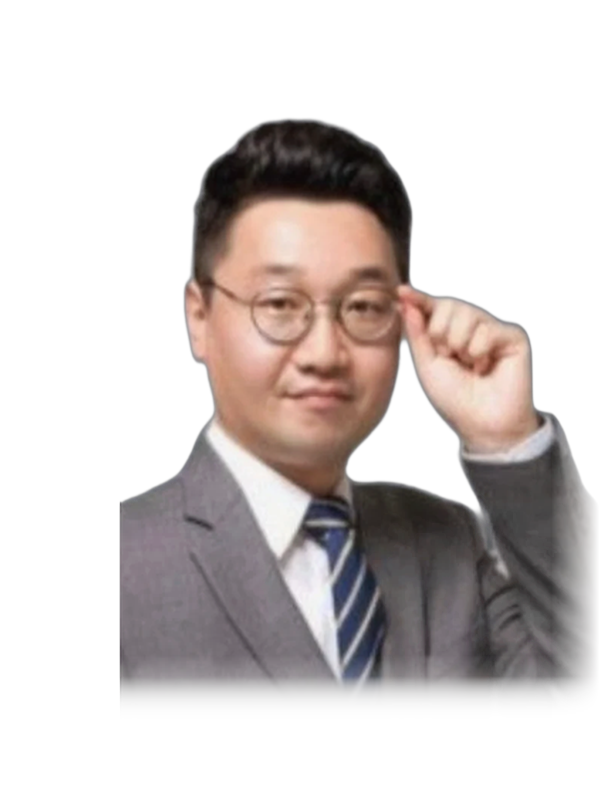
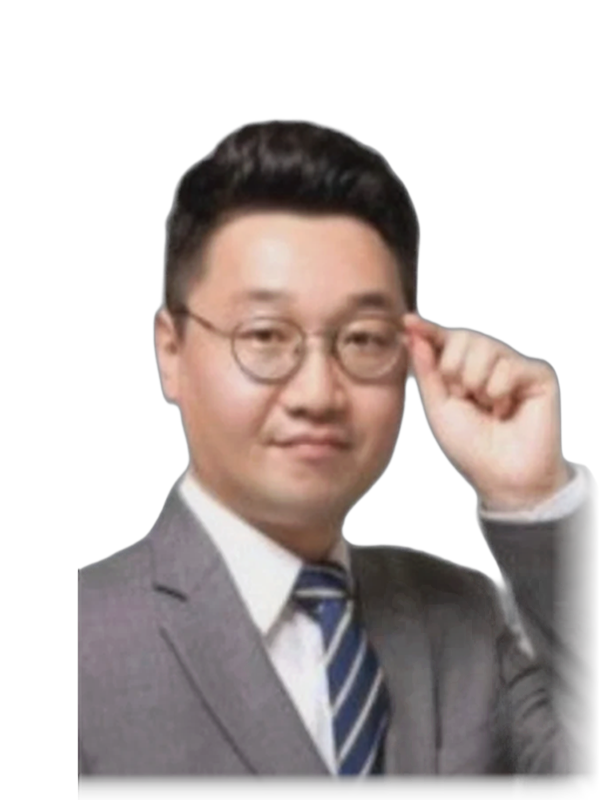
선생님 사진: 아래를 흐리게 하지 않고 몸이 카드 아래 끝까지 오도록 키움
Claude-Session: https://claude.ai/code/session_01H9XFxZ4DKDH3sBZmfjvmgx

diff --git a/scripts/align_photos.py b/scripts/align_photos.py
@@ -74,6 +74,20 @@ def sane(face, img):
     return face if img.height * 0.06 <= fh <= img.height * 0.7 and fw > 0 else None
 
 
+def fill_bottom(canvas):
+    """몸이 캔버스 아래 끝까지 오도록(아래가 비면) 머리 위치는 그대로 두고 살짝 키웁니다."""
+    bb = canvas.split()[3].point(lambda v: 255 if v > 40 else 0).getbbox()
+    if not bb or bb[3] >= H - 2:
+        return canvas
+    top, bottom = bb[1], bb[3]
+    k = (H - top) / (bottom - top)
+    big = canvas.resize((round(W * k), round(H * k)), Image.LANCZOS)
+    cx = (bb[0] + bb[2]) / 2
+    out = Image.new('RGBA', (W, H), (0, 0, 0, 0))
+    out.paste(big, (round(cx - cx * k), round(top - top * k)), big)
+    return out
+
+
 def align(src: Path, dst: Path):
     img = Image.open(src).convert('RGBA')
     # 큰 원본은 먼저 줄여서 처리(메모리·속도)
@@ -97,18 +111,7 @@ def align(src: Path, dst: Path):
     x0, y0 = round(W / 2 - cx), round(FACE_TOP - top)
     canvas = Image.new('RGBA', (W, H), (0, 0, 0, 0))
     canvas.paste(img, (x0, y0), img)
-    # 원본 아래쪽이 잘린 사진이면 늘려 붙이지 않고(줄무늬가 생김) 아래 끝을 부드럽게 흐리게 처리합니다
-    gap = H - (y0 + img.height)
-    if gap > 0:
-        fade = min(110, img.height // 5)
-        px = canvas.load()
-        bottom = y0 + img.height
-        for y in range(max(0, bottom - fade), min(H, bottom)):
-            k = (bottom - y) / fade
-            for x in range(W):
-                r, g, b, al = px[x, y]
-                if al:
-                    px[x, y] = (r, g, b, int(al * k))
+    canvas = fill_bottom(canvas)
     # 팔 등이 사진 좌우 끝에 닿아 잘려 보이면 끝을 부드럽게 흐리게
     px = canvas.load(); edge = 48
     for x in list(range(edge)) + list(range(W - edge, W)):
